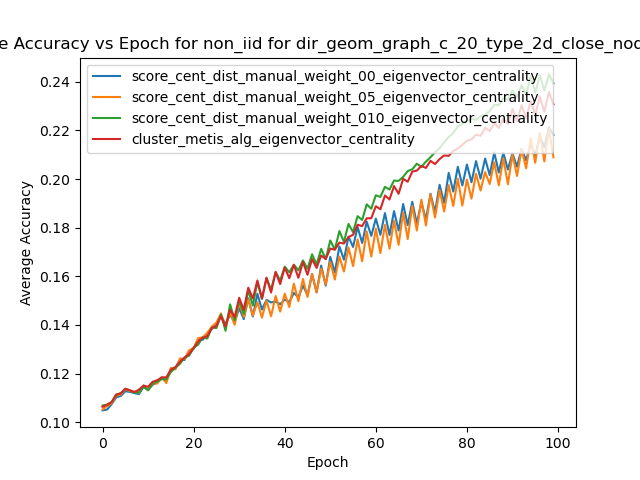
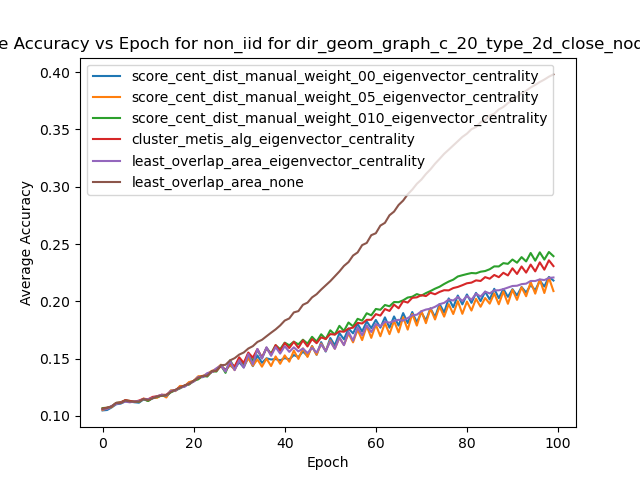
running more sims

diff --git a/code/simulation_code/plot_data.py b/code/simulation_code/plot_data.py
@@ -1075,7 +1075,7 @@ def plot_score_cent_dist_manual(dir_acc_data):
 def plot_new_scheme(dir_acc_data):
     dir_plot_data = '../../data/full_decentralized/new_schemes_plots/'
     iid_types = ('iid', 'non_iid')
-    prefix_names = ('score_cent_dist_manual_weight_00', 'score_cent_dist_manual_weight_05', 'score_cent_dist_manual_weight_010', 'cluster_metis_alg', 'random_nodes')
+    prefix_names = ('score_cent_dist_manual_weight_00', 'score_cent_dist_manual_weight_05', 'score_cent_dist_manual_weight_010', 'cluster_metis_alg', 'random_nodes', 'least_overlap_area')
     seed_range = 50
     num_clients = 20
     num_advs = 4
@@ -1083,7 +1083,7 @@ def plot_new_scheme(dir_acc_data):
         plt.figure()
         
         for prefix_name in prefix_names:
-            for cent in ['none', 'eigenvector_centrality']:
+            for cent in ['eigenvector_centrality', 'none']:
                 all_seeds_data = []
                 
                 for seed in range(seed_range):
@@ -1096,8 +1096,10 @@ def plot_new_scheme(dir_acc_data):
                     with open(filepath, 'r') as f:
                         reader = csv.reader(f)
                         adv_nodes = next(reader)[1]
-                        adv_nodes = list(map(int, adv_nodes.strip('[]').split(',')))
-                        
+                        if adv_nodes != '[]':
+                            adv_nodes = list(map(int, adv_nodes.strip('[]').split(',')))
+                        else:
+                            adv_nodes = []
                         epoch_data = []
                         for row in reader:
                             accs = list(map(float, row[1].strip('[]').split(',')))
@@ -1120,7 +1122,7 @@ def plot_new_scheme(dir_acc_data):
 
     
 if __name__ == '__main__':
-    plot_new_scheme('../../data/full_decentralized/fmnist/ER_graph_c_20_p_09/')
+    plot_new_scheme('../../data/full_decentralized/fmnist/dir_geom_graph_c_20_type_2d_close_nodes/')
     # make_graphs()    
     #for i in range(0, 11):
     #    score_graph_types_centralities_similarity('fmnist', float(i) / 10)

diff --git a/code/simulation_code/full_decentralized_2.py b/code/simulation_code/full_decentralized_2.py
@@ -50,7 +50,7 @@ aggregation_mechanism = aggreg_schemes[1]
 dir_networks = '../../data/full_decentralized/network_topologies'
 dir_data = '../../data/full_decentralized/%s/' % dataset_name
 graph_type = ('ER', 'dir_scale_free', 'dir_geom', 'k_out', 'pref_attach', 'SNAP_Cisco')
-graph_type_used = graph_type[0]
+graph_type_used = graph_type[2]
 # This is the source for network topology
 
 # ADJUSTABLE #####
@@ -63,7 +63,7 @@ if graph_type_used == 'ER':
 # DIR GEOM
 elif graph_type_used == 'dir_geom':
     geo_graph_configs = ('2d_very_close_nodes', '2d_close_nodes', '2d_far_nodes')
-    config_used = 2
+    config_used = 0
     data_dir_name = dir_data + '%s_graph_c_%d_type_%s/' % (graph_type_used, designated_clients, geo_graph_configs[config_used])
     network_topology = '%s_graph_c_%d_type_%s_seed_%d.txt' % (graph_type_used, designated_clients, geo_graph_configs[config_used], seed)
 # K-OUT

diff --git a/code/simulation_code/full_decentralized_3.py b/code/simulation_code/full_decentralized_3.py
@@ -50,7 +50,7 @@ aggregation_mechanism = aggreg_schemes[1]
 dir_networks = '../../data/full_decentralized/network_topologies'
 dir_data = '../../data/full_decentralized/%s/' % dataset_name
 graph_type = ('ER', 'dir_scale_free', 'dir_geom', 'k_out', 'pref_attach', 'SNAP_Cisco')
-graph_type_used = graph_type[0]
+graph_type_used = graph_type[2]
 # This is the source for network topology
 
 # ADJUSTABLE #####
@@ -63,7 +63,7 @@ if graph_type_used == 'ER':
 # DIR GEOM
 elif graph_type_used == 'dir_geom':
     geo_graph_configs = ('2d_very_close_nodes', '2d_close_nodes', '2d_far_nodes')
-    config_used = 2
+    config_used = 0
     data_dir_name = dir_data + '%s_graph_c_%d_type_%s/' % (graph_type_used, designated_clients, geo_graph_configs[config_used])
     network_topology = '%s_graph_c_%d_type_%s_seed_%d.txt' % (graph_type_used, designated_clients, geo_graph_configs[config_used], seed)
 # K-OUT

diff --git a/code/simulation_code/full_decentralized_0.py b/code/simulation_code/full_decentralized_0.py
@@ -63,7 +63,7 @@ if graph_type_used == 'ER':
 # DIR GEOM
 elif graph_type_used == 'dir_geom':
     geo_graph_configs = ('2d_very_close_nodes', '2d_close_nodes', '2d_far_nodes')
-    config_used = 1
+    config_used = 2
     data_dir_name = dir_data + '%s_graph_c_%d_type_%s/' % (graph_type_used, designated_clients, geo_graph_configs[config_used])
     network_topology = '%s_graph_c_%d_type_%s_seed_%d.txt' % (graph_type_used, designated_clients, geo_graph_configs[config_used], seed)
 # K-OUT

diff --git a/code/simulation_code/full_decentralized_1.py b/code/simulation_code/full_decentralized_1.py
@@ -63,7 +63,7 @@ if graph_type_used == 'ER':
 # DIR GEOM
 elif graph_type_used == 'dir_geom':
     geo_graph_configs = ('2d_very_close_nodes', '2d_close_nodes', '2d_far_nodes')
-    config_used = 1
+    config_used = 2
     data_dir_name = dir_data + '%s_graph_c_%d_type_%s/' % (graph_type_used, designated_clients, geo_graph_configs[config_used])
     network_topology = '%s_graph_c_%d_type_%s_seed_%d.txt' % (graph_type_used, designated_clients, geo_graph_configs[config_used], seed)
 # K-OUT

diff --git a/code/simulation_code/full_decentralized_6.py b/code/simulation_code/full_decentralized_6.py
@@ -57,7 +57,7 @@ graph_type_used = graph_type[0]
 designated_clients = 20
 # ER
 if graph_type_used == 'ER':
-    prob_conn = 5
+    prob_conn = 3
     data_dir_name = dir_data + '%s_graph_c_%d_p_0%d/' % (graph_type_used, designated_clients, prob_conn)
     network_topology = '%s_graph_c_%d_p_0%d_seed_%d.txt' % (graph_type_used, designated_clients, prob_conn, seed)
 # DIR GEOM

diff --git a/code/simulation_code/full_decentralized_7.py b/code/simulation_code/full_decentralized_7.py
@@ -57,7 +57,7 @@ graph_type_used = graph_type[0]
 designated_clients = 20
 # ER
 if graph_type_used == 'ER':
-    prob_conn = 5
+    prob_conn = 3
     data_dir_name = dir_data + '%s_graph_c_%d_p_0%d/' % (graph_type_used, designated_clients, prob_conn)
     network_topology = '%s_graph_c_%d_p_0%d_seed_%d.txt' % (graph_type_used, designated_clients, prob_conn, seed)
 # DIR GEOM

diff --git a/code/simulation_code/full_decentralized_8.py b/code/simulation_code/full_decentralized_8.py
@@ -57,7 +57,7 @@ graph_type_used = graph_type[0]
 designated_clients = 20
 # ER
 if graph_type_used == 'ER':
-    prob_conn = 5
+    prob_conn = 1
     data_dir_name = dir_data + '%s_graph_c_%d_p_0%d/' % (graph_type_used, designated_clients, prob_conn)
     network_topology = '%s_graph_c_%d_p_0%d_seed_%d.txt' % (graph_type_used, designated_clients, prob_conn, seed)
 # DIR GEOM

diff --git a/code/simulation_code/full_decentralized_9.py b/code/simulation_code/full_decentralized_9.py
@@ -57,7 +57,7 @@ graph_type_used = graph_type[0]
 designated_clients = 20
 # ER
 if graph_type_used == 'ER':
-    prob_conn = 5
+    prob_conn = 1
     data_dir_name = dir_data + '%s_graph_c_%d_p_0%d/' % (graph_type_used, designated_clients, prob_conn)
     network_topology = '%s_graph_c_%d_p_0%d_seed_%d.txt' % (graph_type_used, designated_clients, prob_conn, seed)
 # DIR GEOM
